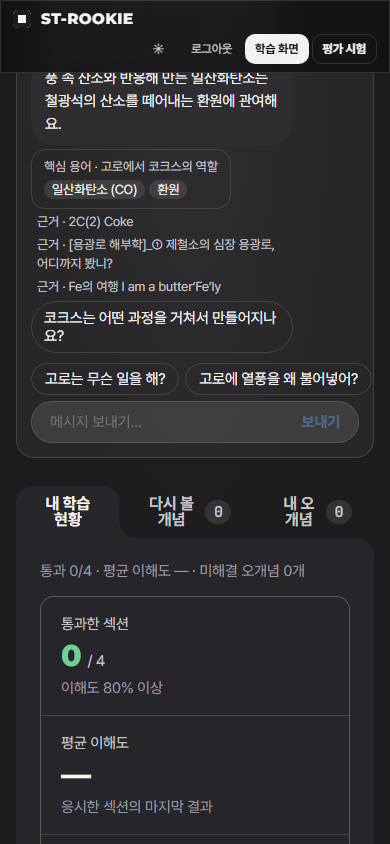
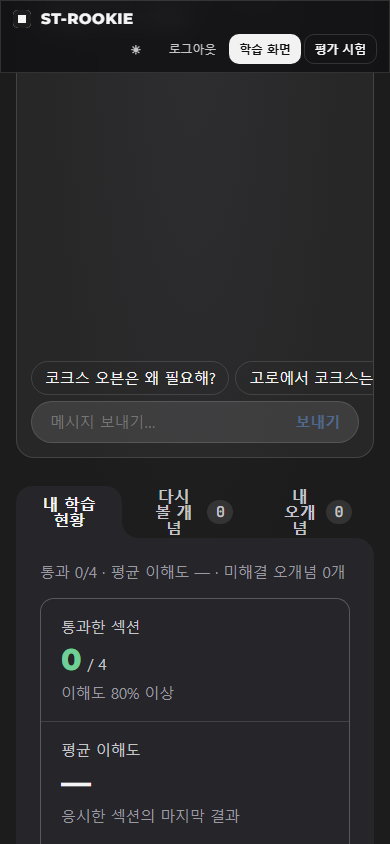
fix(demo): preserve mobile controls and verify real exam retry
최신 HUD에서도 조작 바와 시험 재도전이 정상 동작하도록 검증과 실행 명령을 정리했습니다.

- 모바일 상단 바의 transform과 너비를 정리하고 화면 검사는 기본으로 모델 호출을 생략했습니다.
- Gemini 오답 6턴과 0점 미통과 결과에서 포석호 표정·새로고침·재도전 첫 문제까지 확인했습니다.
- 자동 테스트 367개와 브라우저 검증 결과 및 프론트 변경별 확인 범위를 문서에 남겼습니다.

Refs #141, #144

diff --git a/frontend/3d-demo/steel-index.html b/frontend/3d-demo/steel-index.html
@@ -217,11 +217,13 @@
     .bar .track { min-width: 0; overflow-x: auto; scrollbar-width: thin; padding: 4px 3px; }
     .bar .stop { flex: none; }
     @media (max-width: 760px) {
-      .top { left: 10px; right: 10px; transform: none; max-width: calc(100vw - 20px); }
+      .top { left: 10px; right: 10px; width: auto; box-sizing: border-box; transform: none; max-width: none; transition: opacity .35s var(--ease); }
+      body.touring:not(.peek) .top { transform: translateY(calc(-100% - 16px)); }
       .top .tabs { min-width: 0; overflow-x: auto; }
       .top .rb { flex: none; width: 36px; height: 36px; }
       body.panel .bar, .bar { left: 10px; right: 10px; width: auto; transform: none; max-width: none; padding: 0 10px; }
     }
+    @media (prefers-reduced-motion: reduce) { .top { transition: none; } }
   </style>
 </head>
 <body>

diff --git a/docs/frontend-integration-checks.md b/docs/frontend-integration-checks.md
@@ -1,0 +1,55 @@
+# 프론트 변경과 백엔드·에이전트 검증
+
+프론트 수정 때마다 백엔드나 에이전트를 새로 연결할 필요는 없다. 서버가 같은 API를 제공하고 프론트가 그 요청 계약을 유지하면 연결은 계속 동작한다. 서로 다른 worktree에서 작업한 변경은 **실제 시연 서버의 실행 폴더에 통합**해야 화면에 반영된다.
+
+## 변경별 확인 범위
+
+| 변경 | 필요한 확인 |
+|---|---|
+| 색·폰트·여백·이미지·카드 배치 | 데스크톱/모바일 화면, 입력창/버튼 가시성. 모델 호출 불필요 |
+| 화면 이동·DOM ID·이벤트·공정/설비 선택 | 브라우저에서 버튼·선택 맥락·로그인·새로고침 확인. 모델 호출 없이 검사 가능 |
+| API 주소·요청/응답 필드·JWT·시험 작업/상태 | 프론트와 서버를 함께 실행하고 HTTP·브라우저 통합 검사 |
+| RAG 자료·프롬프트·모델·루브릭·채점 | 결정적 테스트와 실제 모델 평가. 기능 연결 성공과 답변/채점 정확도는 구분 |
+
+바닐라 HTML/CSS/JS는 실행 중 서버가 `frontend/`에서 직접 서빙한다. 실행 폴더 안 정적 파일의 수정은 브라우저 새로고침으로 반영된다. TypeScript 백엔드 변경은 빌드와 서버 재시작이 필요하다. 개발 브랜치에서 화면을 고쳐도 다른 폴더에서 실행 중인 서버에는 자동으로 옮겨지지 않는다.
+
+## 반복 가능한 검사 명령
+
+별도 QA DB를 사용하는 Gemini 서버를 3013에서 실행한다. 실제 사용자 DB에 QA 계정과 오답 시험을 만들지 않는다.
+
+```powershell
+$env:PORT = "3013"
+$env:DB_PATH = "data/qa-retry.sqlite"
+$env:ANSWER_CACHE_PATH = "data/qa-retry-cache.json"
+$env:WARM_ANSWERS = "off"
+npm run start:gemini
+```
+
+다른 터미널에서 Playwright 도구를 설치하고 화면 연결을 검사한다. 아래 기본 검사는 모델을 호출하지 않는다.
+
+```powershell
+npm install --prefix data/browser-tools playwright --no-package-lock --ignore-scripts
+$env:DEMO_QA_URL = "http://127.0.0.1:3013"
+npm run check:ui
+```
+
+실제 학습 답변까지 확인할 필요가 있을 때만 `$env:DEMO_QA_LLM = "on"`으로 실행한다. 캐시가 비어 있는 별도 QA DB/답변 캐시에서 사용한다. 캐시가 채워져 있으면 기존 답변을 확인할 수 있으므로 모델 자체의 속도 평가는 별도 스크립트를 쓴다.
+
+시험과 포석호 재도전의 실제 흐름:
+
+```powershell
+$env:RETRY_QA_URL = "http://127.0.0.1:3013"
+npm run check:exam-retry
+```
+
+이 검사는 Gemini로 오답 → 설명 → 재확인 → 미통과 완료를 만든다. 실제 완료 화면의 표정과 새로고침 복원, 재도전 버튼, 재도전 첫 문제를 확인한다. 모델 호출이 발생한다. 로컬 Chromium 설치 경로는 각 검사 스크립트에서 환경에 맞게 지정한다.
+
+## 2026-10-14 최신 통합 결과
+
+- `origin/dev`의 `ea90f2f`와 개발 중인 PR #144(`design/brand-orange`, `56d617f`)를 시연 브랜치 `integrate/demo-latest`에 통합했다. 원격 dev/PR을 직접 병합한 것은 아니다.
+- 새 대시보드 보기·주황색 HUD·고정 크기 재생 바·도입 화면을 기존 Gemini와 마이페이지 질문 연결에 통합했다.
+- 모바일 상단 바의 기존 가운데 정렬 transform과 새 좌우 고정 위치가 겹치는 문제를 정리했다. 동작 축소 설정에서도 전환이 멈춘다.
+- 전체 자동 테스트 **367개 통과**.
+- 이슈 #141 재검증: 실제 Gemini 오답 6턴 → 0점/미통과 → 아쉬운 포석호 표정 → 새로고침 유지 → 새 `kind=retry` 시험 → `awaiting_answer` 첫 문제. 총 54초. QA 계정에서 실행했고 실제 사용자 점수는 변경하지 않았다.
+
+근거: [미통과 화면](screenshots/retry-live/failed-result.png), [재도전 첫 문제](screenshots/retry-live/retry-question.png), [검증 결과 JSON](screenshots/retry-live/result.json).

diff --git a/WORKLOG.md b/WORKLOG.md
@@ -1,5 +1,13 @@
 # 작업 기록
 
+## 2026-10-14 최신 프론트 통합과 실제 포석호 재도전 검증
+
+- `origin/dev` ea90f2f와 진행 중인 주황색 HUD PR #144의 4bf9b8e를 별도 `integrate/demo-latest` 시연 브랜치에 통합했다. 원격 dev/PR은 변경하지 않았다.
+- 대시보드 보기·설비 위치·주황색·고정 크기 재생 바를 유지하면서 기존 튜터 제거·마이페이지 맥락 전달·로그아웃을 보존했다. 삭제된 오프닝의 sampleProc 호출이 병합 과정에서 돌아오지 않도록 정리했다.
+- 모바일 상단 바에서 가운데 정렬 transform과 좌우 고정 배치가 겹치는 문제를 해결하고 동작 축소 설정을 적용했다.
+- 전체 테스트 367개 통과. 별도 QA DB에서 실제 Gemini로 오답 6턴과 0점 미통과 결과를 만들고 포석호 표정·새로고침·재도전 버튼·첫 문제까지 54초에 검증했다.
+- `check:ui`는 모델 호출 없는 화면/연결 검사로, `check:exam-retry`는 실제 모델 시험 검사로 제공한다. 변경 종류별 검증 범위와 명령은 docs/frontend-integration-checks.md에 정리했다.
+
 ## 2026-10-14 Gemini 시연과 공정·마이페이지 배치 수정
 
 - 요청한 개발 항목을 GitHub 이슈 #140(공정 화면), #141(재도전 표정), #142(마이페이지), #143(Gemini 실행)으로 등록했다.
